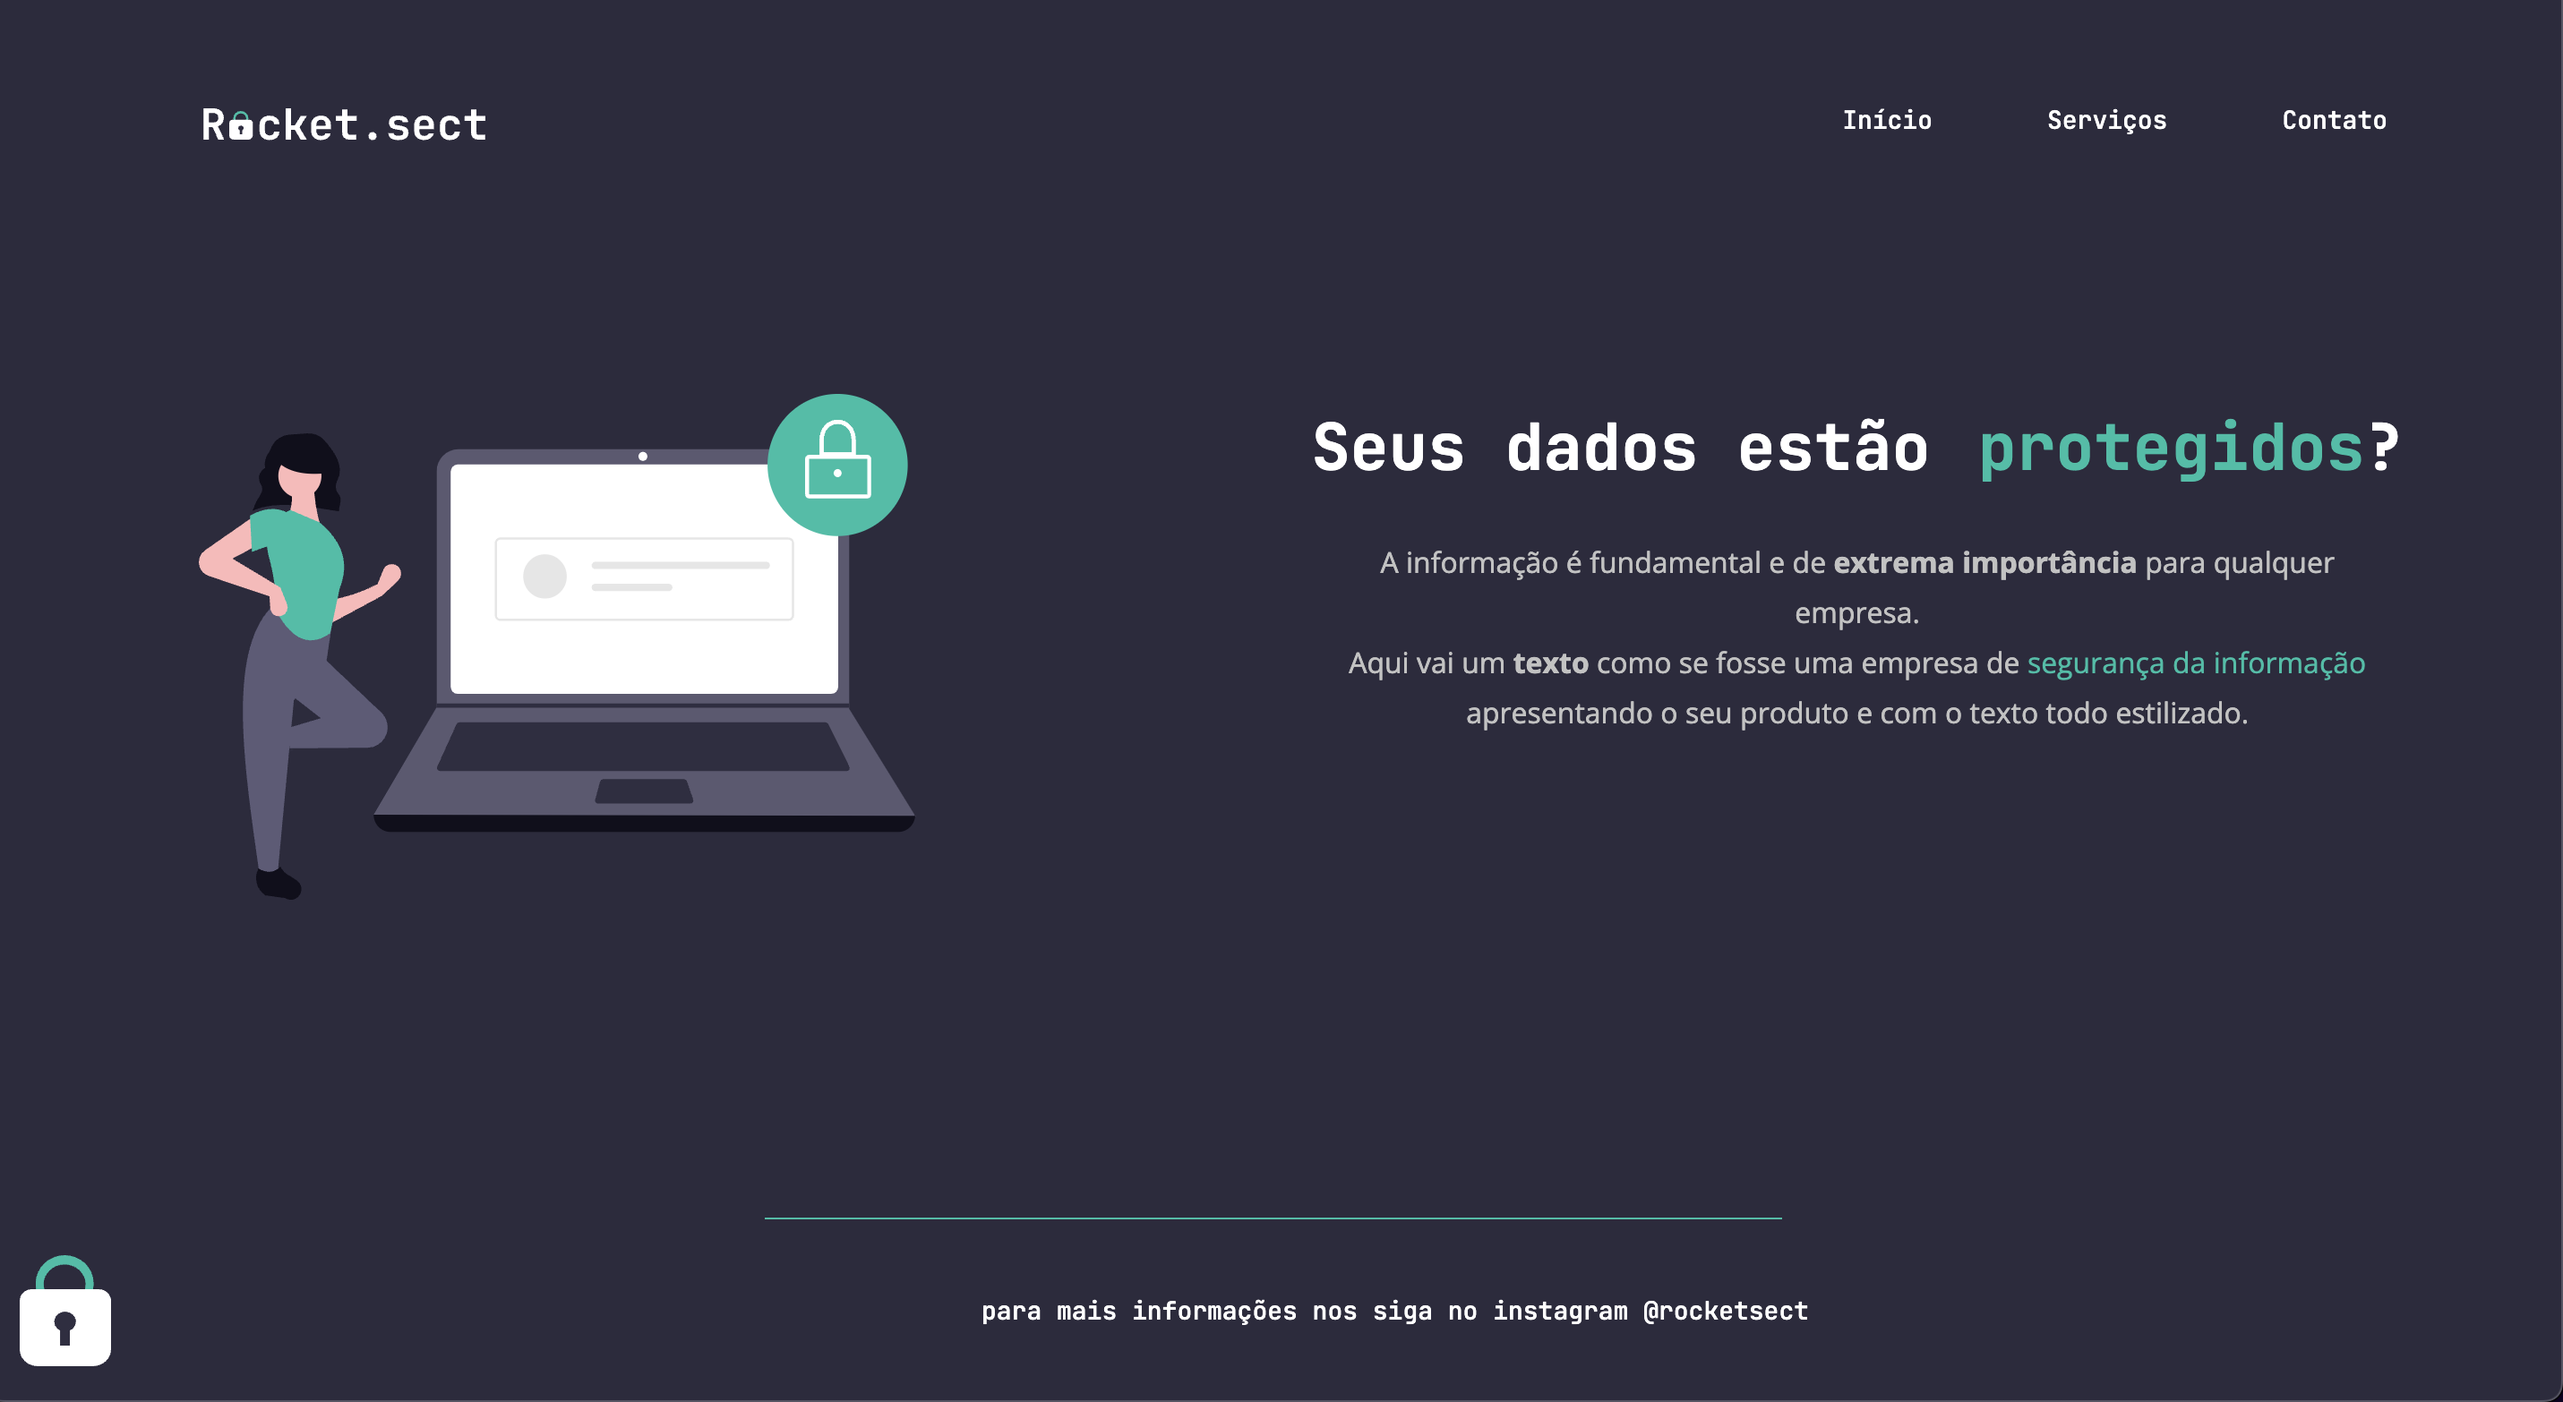
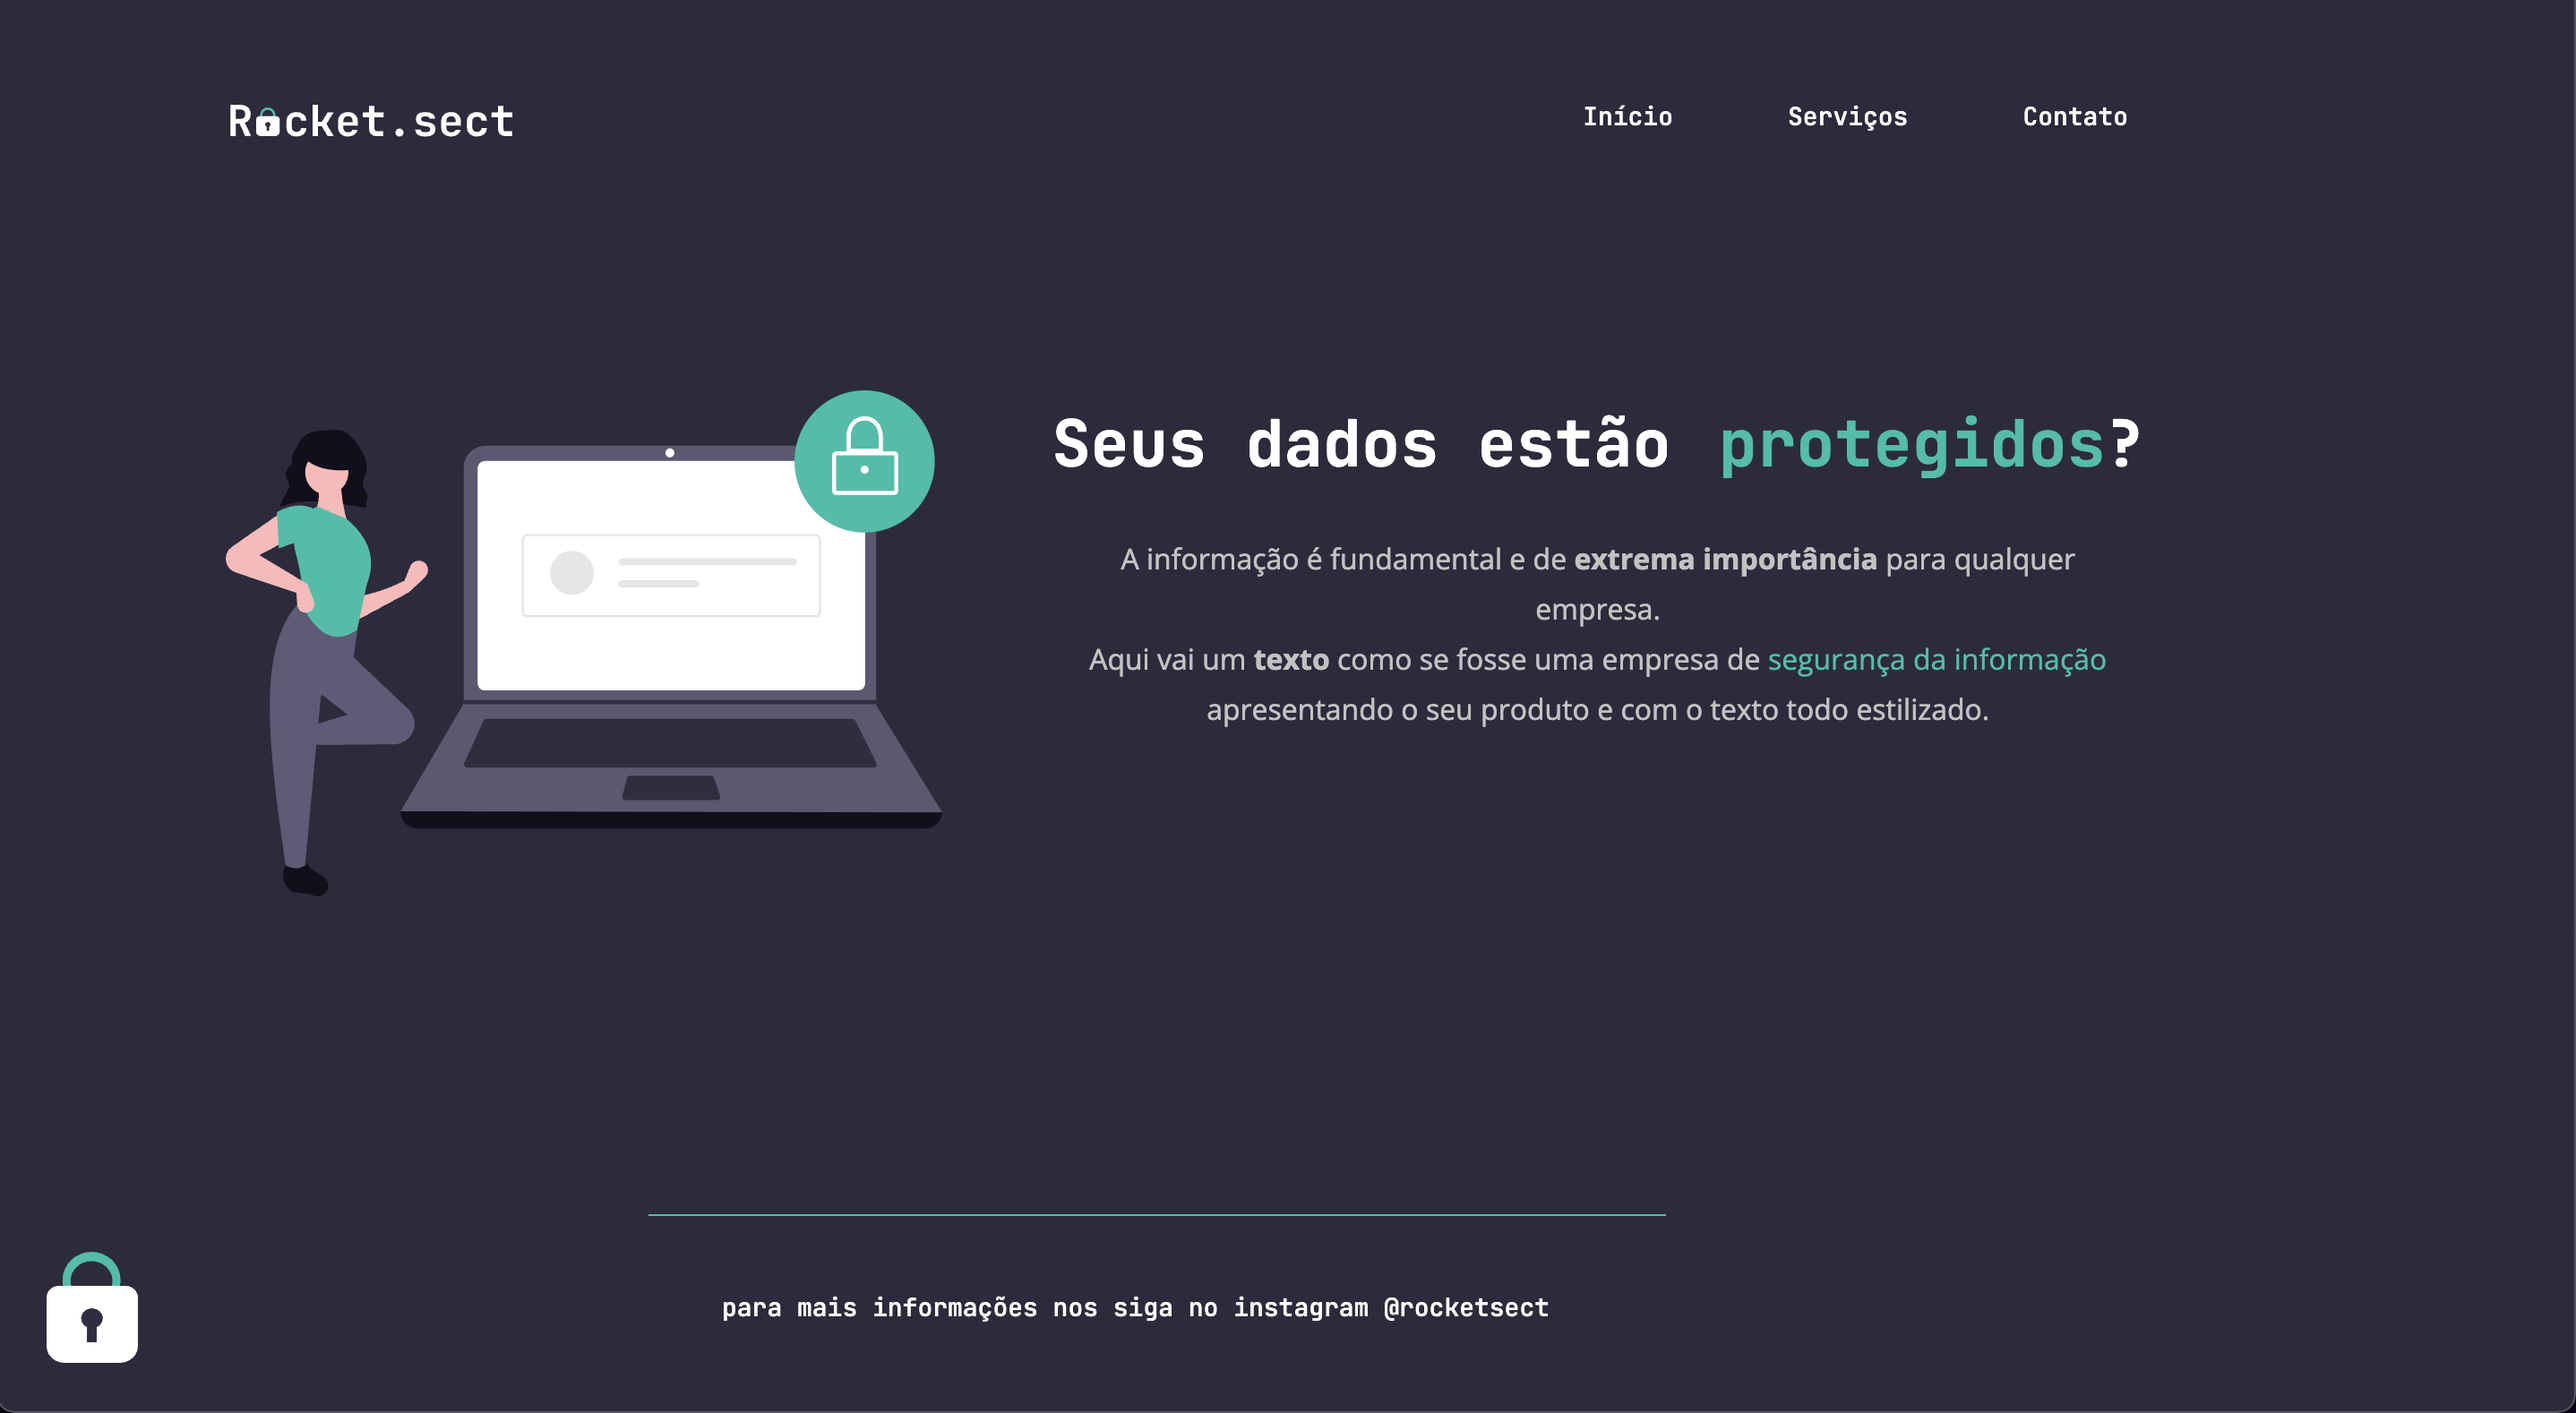
alinhando o rodapé

diff --git a/style.css b/style.css
@@ -1,7 +1,7 @@
 body{
     background-color: #2C2B3D;
     color: white;
-    margin:0;
+    width: 1280px;
 }
 
 nav {
@@ -84,14 +84,14 @@ p span {
 #linha {
     border-top: 1px solid #00BFA6;
     width: 568px;
-    margin: 0px auto;
+    margin: 0px 356px;
     height: 0px;
 }
 
 footer{
     display: flex;
     flex-direction: row-reverse;
-    justify-content: space-between;
+    justify-content:space-between;
     align-items: center;
 }
 footer p { 
@@ -100,9 +100,9 @@ footer p {
     font-weight: 500px;
     font-size: 14px;
     line-height: 28px;
-    text-align: center;
     color: white;
     margin-right: 421px;
+    margin-left: 0px;
 }
 
 
@@ -115,5 +115,6 @@ footer a {
 }
 
 img{
+    
     margin: 20px;
 }

diff --git a/index.html b/index.html
@@ -36,7 +36,7 @@
     </div>
     <footer>
         <p>para mais informações nos siga no instagram <a href="instagram.com/rocketsect">@rocketsect</a></p>
-        <img src="images/padlock-decoration-2.svg" alt="Desenho de um cadeado">
+        <img src="images/padlock-decoration-2.svg" alt="Desenho de um cadeado" id="cadeado">
     </footer>
 </body>
 
